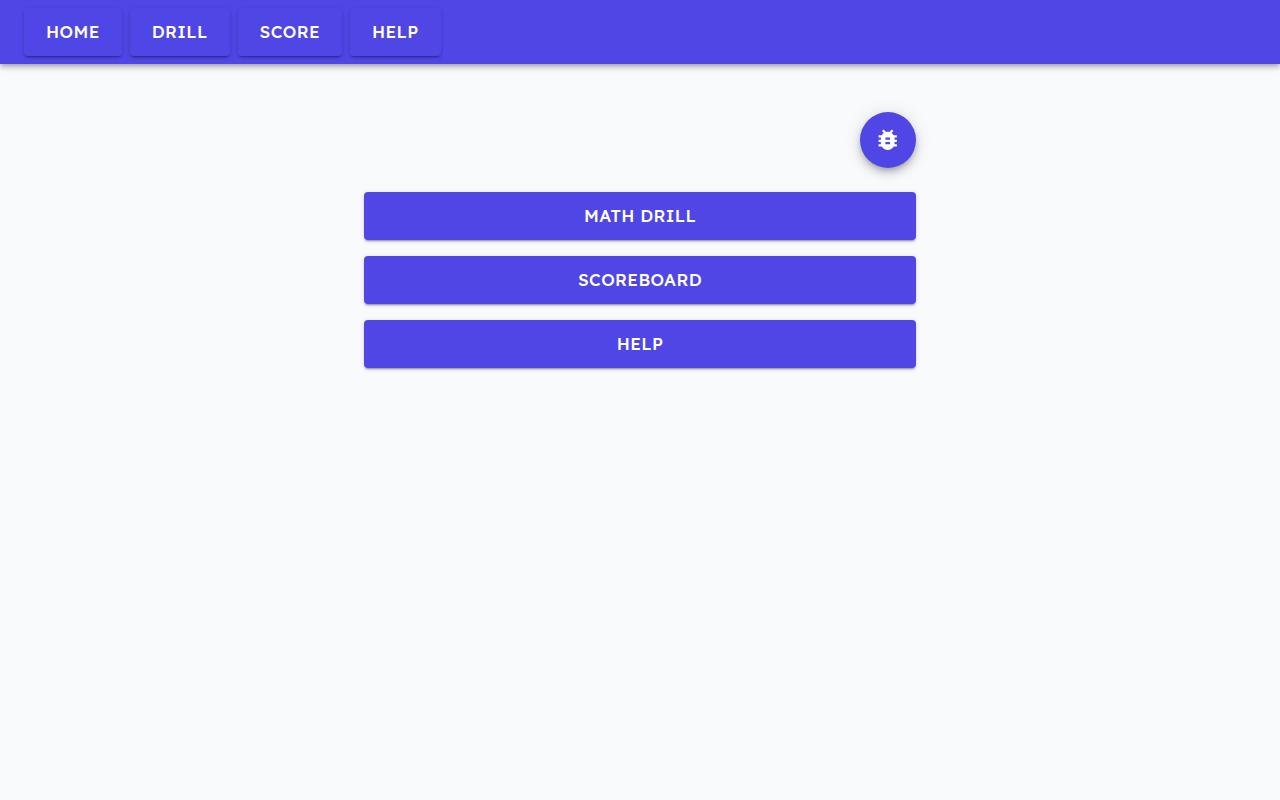
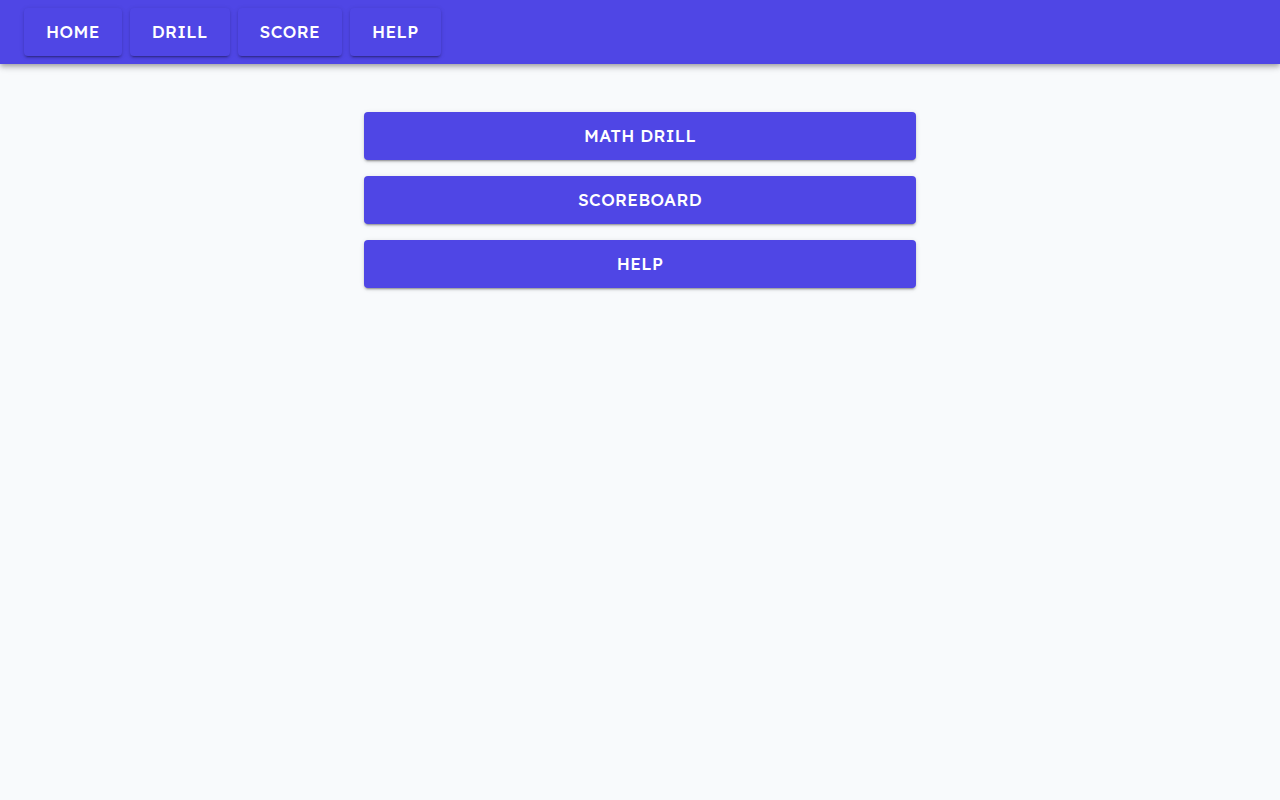
Move bug reporting from Home page FAB to Help page section
Fixes #1108

Changed region(s): [[0.2812, 0.125, 0.7188, 0.4688]]

diff --git a/src/learn/home.tsx b/src/learn/home.tsx
@@ -1,4 +1,4 @@
-import { BugReport, Share } from '@mui/icons-material';
+import { Share } from '@mui/icons-material';
 import Box from '@mui/material/Box';
 import Button from '@mui/material/Button';
 import Container from '@mui/material/Container';
@@ -26,32 +26,20 @@ function shareComponent() {
     return null;
   }
   return (
-    <Tooltip title="Share">
-      <FloatingActionButton aria-label="Share" color="primary" onClick={share}>
-        <Share />
-      </FloatingActionButton>
-    </Tooltip>
+    <Box sx={{ display: 'flex', justifyContent: 'flex-end', mb: 3 }}>
+      <Tooltip title="Share">
+        <FloatingActionButton aria-label="Share" color="primary" onClick={share}>
+          <Share />
+        </FloatingActionButton>
+      </Tooltip>
+    </Box>
   );
 }
 
 function home() {
   return (
     <Container maxWidth="sm" sx={{ py: 3 }}>
-      <Box sx={{ display: 'flex', gap: 2, justifyContent: 'flex-end', mb: 3 }}>
-        <a
-          aria-label="Issue guyellis/learn on GitHub"
-          href="https://github.com/guyellis/learn/issues"
-          rel="noopener noreferrer"
-          target="_blank"
-        >
-          <Tooltip title="Bugs and Issues">
-            <FloatingActionButton aria-label="Report a bug" color="primary">
-              <BugReport />
-            </FloatingActionButton>
-          </Tooltip>
-        </a>
-        {shareComponent()}
-      </Box>
+      {shareComponent()}
       <Stack spacing={2}>
         <Link style={{ textDecoration: 'none' }} to="/math/drill">
           <Button

diff --git a/test/learn/help/index.test.tsx b/test/learn/help/index.test.tsx
@@ -20,5 +20,11 @@ describe('Help', () => {
     expect(screen.getByRole('heading', { level: 4, name: /Options/i })).toBeDefined();
     expect(screen.getByRole('heading', { level: 3, name: /Running/i })).toBeDefined();
     expect(screen.getByRole('heading', { level: 1, name: /Scoreboard/i })).toBeDefined();
+    expect(screen.getByRole('heading', { level: 3, name: /Bugs and Issues/i })).toBeDefined();
+    expect(screen.getByText(/Math Drill is an open source project/i)).toBeDefined();
+
+    const link = screen.getByRole('link', { name: /open an issue on GitHub/i });
+    expect(link).toBeDefined();
+    expect(link.getAttribute('href')).toEqual('https://github.com/guyellis/learn/issues');
   });
 });

diff --git a/test/learn/home.test.tsx b/test/learn/home.test.tsx
@@ -20,7 +20,8 @@ describe('Home', () => {
     expect(screen.getByRole('button', { name: /Math Drill/i })).toBeDefined();
     expect(screen.getByRole('button', { name: /Scoreboard/i })).toBeDefined();
     expect(screen.getByRole('button', { name: /Help/i })).toBeDefined();
-    expect(screen.getByRole('link', { name: /Issue guyellis\/learn on GitHub/i })).toBeDefined();
+    expect(screen.queryByRole('link', { name: /Issue guyellis\/learn on GitHub/i })).toBeNull();
+    expect(screen.queryByRole('button', { name: /Report a bug/i })).toBeNull();
     expect(screen.queryByRole('button', { name: /Share/i })).toBeNull();
   });
 

diff --git a/src/learn/help/index.tsx b/src/learn/help/index.tsx
@@ -95,6 +95,14 @@ There is a summary at the top showing all the badges you have earned.
 Below that is a table showing badges by level and operation.
 
 For now badges are only awarded for single-operation tests.
+
+### Bugs and Issues
+
+Math Drill is an open source project and its source code is hosted on GitHub. Bugs and \
+feature requests are tracked there too.
+
+If you find a bug or have an idea for improving Math Drill, please \
+[open an issue on GitHub](https://github.com/guyellis/learn/issues).
 `;
 
 function help() {
